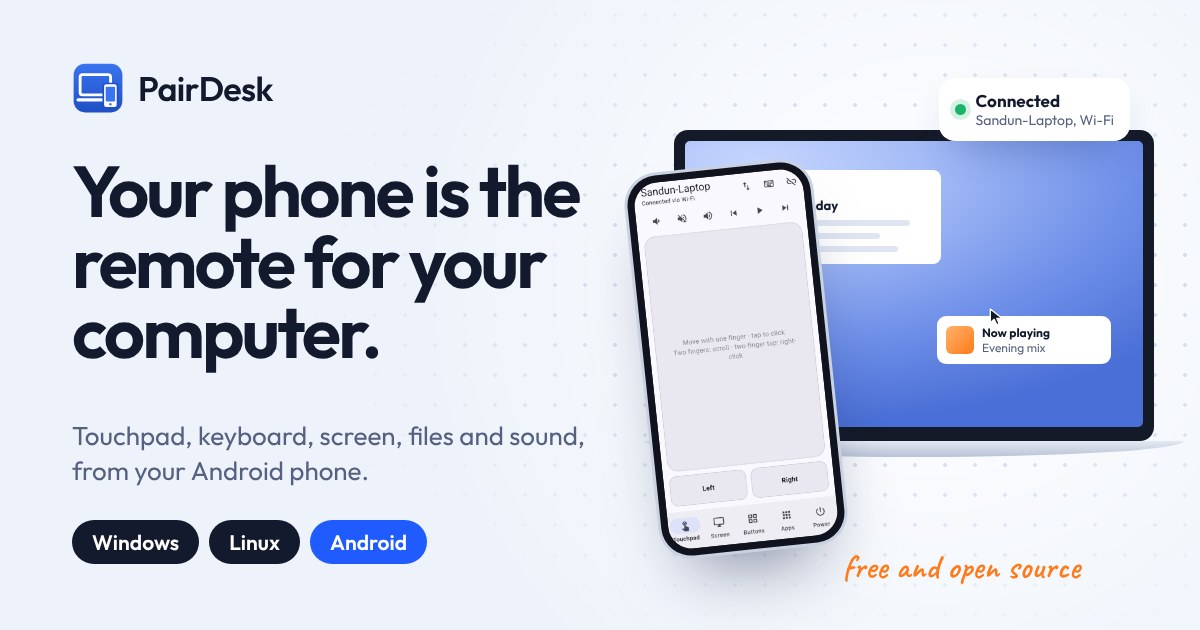
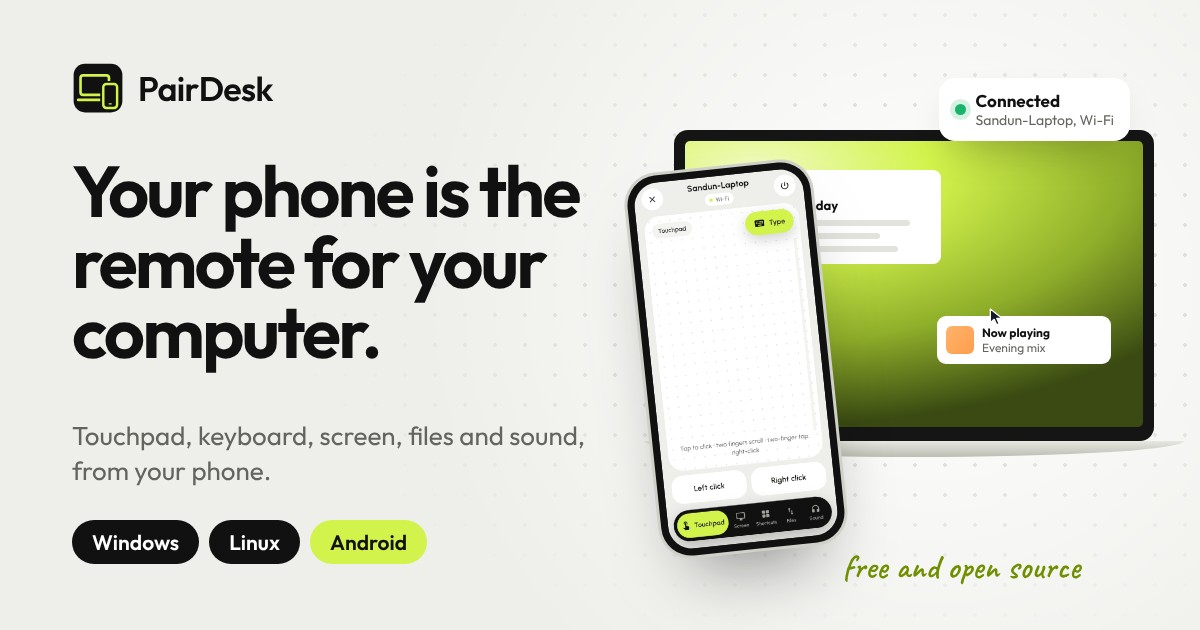
Website: ink and lime colours like the apps, desktop app section, new preview image, wording that matches the app

diff --git a/site/components/Devices.tsx b/site/components/Devices.tsx
@@ -15,20 +15,20 @@ export function Phone({
 }) {
   return (
     <div
-      className={`relative bg-[#10131d] shadow-[0_50px_90px_-40px_rgba(20,30,70,.55),0_0_0_1.5px_#2a3042_inset,0_0_0_4px_#c9d2e3] ${
+      className={`relative bg-[#111111] shadow-[0_50px_90px_-40px_rgba(17,17,17,.5),0_0_0_1.5px_#2a2a2a_inset,0_0_0_4px_#cfd0c8] ${
         landscape ? "aspect-[1170/540] rounded-[6.5%/14%] p-[1.6%]" : "aspect-[540/1170] rounded-[14%/6.5%] p-[3.2%]"
       } ${className}`}
       style={style}
     >
       <div
-        className={`relative h-full w-full overflow-hidden bg-[#f6f6fb] ${
+        className={`relative h-full w-full overflow-hidden bg-[#f3f3ef] ${
           landscape ? "rounded-[5.3%/11.5%]" : "rounded-[11.5%/5.3%]"
         }`}
       >
         {children}
         {/* camera island */}
         <span
-          className={`absolute rounded-full bg-[#10131d] ${
+          className={`absolute rounded-full bg-[#111111] ${
             landscape
               ? "top-1/2 left-[1.6%] h-[28%] w-[3%] -translate-y-1/2"
               : "top-[1.6%] left-1/2 h-[3%] w-[28%] -translate-x-1/2"
@@ -52,14 +52,14 @@ export function Desktop({
 }) {
   return (
     <div className={`absolute inset-0 overflow-hidden [container-type:inline-size] ${className}`}>
-      <div className="absolute inset-0 bg-[radial-gradient(120%_90%_at_15%_10%,#c8d8ff_0%,#9fb7f5_35%,#6d8ee8_70%,#4a6fd6_100%)]" />
+      <div className="absolute inset-0 bg-[radial-gradient(120%_90%_at_15%_10%,#f1fbc4_0%,#d2f34c_32%,#8fae2a_68%,#3a4a12_100%)]" />
       {/* soft hills */}
       <svg className="absolute inset-x-0 bottom-0 h-1/2 w-full" viewBox="0 0 400 100" preserveAspectRatio="none" aria-hidden="true">
         <path d="M0 60 C 80 30 140 70 220 45 S 360 40 400 55 V100 H0Z" fill="#ffffff" opacity=".18" />
         <path d="M0 80 C 90 55 170 90 260 68 S 360 70 400 76 V100 H0Z" fill="#ffffff" opacity=".22" />
       </svg>
       {/* notes window */}
-      <div className="absolute top-[9%] left-[7%] w-[46%] rounded-[1.6cqw] bg-white/95 p-[2.2cqw] shadow-[0_2cqw_5cqw_-2cqw_rgba(20,30,80,.45)]">
+      <div className="absolute top-[9%] left-[7%] w-[46%] rounded-[1.6cqw] bg-white/95 p-[2.2cqw] shadow-[0_2cqw_5cqw_-2cqw_rgba(17,17,17,.4)]">
         <div className="flex gap-[0.8cqw]">
           <i className="block size-[1.4cqw] rounded-full bg-[#ff6b5e]" />
           <i className="block size-[1.4cqw] rounded-full bg-[#ffc24a]" />
@@ -67,16 +67,16 @@ export function Desktop({
         </div>
         <p className="mt-[1.8cqw] text-[2.6cqw] leading-tight font-semibold text-ink">Ideas for Monday</p>
         <div className="mt-[1.4cqw] space-y-[1cqw]">
-          <i className="block h-[1cqw] w-[92%] rounded-full bg-[#dfe5f2]" />
-          <i className="block h-[1cqw] w-[78%] rounded-full bg-[#dfe5f2]" />
-          <i className="block h-[1cqw] w-[85%] rounded-full bg-[#dfe5f2]" />
-          <i className="block h-[1cqw] w-[55%] rounded-full bg-[#dfe5f2]" />
+          <i className="block h-[1cqw] w-[92%] rounded-full bg-[#e3e3de]" />
+          <i className="block h-[1cqw] w-[78%] rounded-full bg-[#e3e3de]" />
+          <i className="block h-[1cqw] w-[85%] rounded-full bg-[#e3e3de]" />
+          <i className="block h-[1cqw] w-[55%] rounded-full bg-[#e3e3de]" />
         </div>
       </div>
       {/* music card */}
       <div
         data-target="play"
-        className="absolute right-[7%] bottom-[22%] w-[34%] rounded-[1.8cqw] bg-white/90 p-[1.8cqw] shadow-[0_2cqw_5cqw_-2cqw_rgba(20,30,80,.45)]"
+        className="absolute right-[7%] bottom-[22%] w-[34%] rounded-[1.8cqw] bg-white/90 p-[1.8cqw] shadow-[0_2cqw_5cqw_-2cqw_rgba(17,17,17,.4)]"
       >
         <div className="flex items-center gap-[1.4cqw]">
           <span className="grid size-[6cqw] shrink-0 place-items-center rounded-[1.2cqw] bg-[linear-gradient(135deg,#ffb36b,#ff7a1a)]">
@@ -97,13 +97,13 @@ export function Desktop({
             <span className="block truncate text-[1.8cqw] leading-tight text-slate">Evening mix</span>
           </span>
         </div>
-        <span className="mt-[1.4cqw] block h-[0.7cqw] overflow-hidden rounded-full bg-[#e3e8f3]">
+        <span className="mt-[1.4cqw] block h-[0.7cqw] overflow-hidden rounded-full bg-[#e3e3de]">
           <span className="prog block h-full w-[45%] rounded-full bg-marker" />
         </span>
       </div>
       {/* taskbar */}
       <div className="absolute bottom-[3.5%] left-1/2 flex -translate-x-1/2 gap-[1.2cqw] rounded-[1.6cqw] bg-white/70 px-[1.6cqw] py-[1.1cqw] backdrop-blur-sm">
-        {["#1f5bff", "#ff7a1a", "#19b46b", "#8f5bff", "#ffc24a"].map((c) => (
+        {["#d2f34c", "#ff7a1a", "#19b46b", "#8f5bff", "#ffc24a"].map((c) => (
           <i key={c} className="block size-[3cqw] rounded-[0.8cqw]" style={{ background: c }} />
         ))}
       </div>
@@ -124,13 +124,13 @@ export function Laptop({
 }) {
   return (
     <div className={`relative ${className}`}>
-      <div className="rounded-[2.2%/3.4%] bg-[#151a28] p-[2.2%] pb-[3%] shadow-[0_60px_100px_-50px_rgba(20,30,70,.55),0_0_0_1.5px_#2c3347_inset]">
+      <div className="rounded-[2.2%/3.4%] bg-[#151515] p-[2.2%] pb-[3%] shadow-[0_60px_100px_-50px_rgba(17,17,17,.5),0_0_0_1.5px_#2c2c2c_inset]">
         <div ref={screenRef} className="relative aspect-[16/10] overflow-hidden rounded-[0.8%] bg-sky">
           {children}
         </div>
       </div>
-      <div className="relative mx-[-6%] h-[3.2vmin] max-h-5 min-h-2.5 rounded-b-[40%_100%] bg-[linear-gradient(#e4e9f2,#b9c3d6)] shadow-[0_24px_40px_-20px_rgba(20,30,70,.5)]">
-        <span className="absolute top-0 left-1/2 h-[45%] w-[16%] -translate-x-1/2 rounded-b-xl bg-[#a8b3c8]" />
+      <div className="relative mx-[-6%] h-[3.2vmin] max-h-5 min-h-2.5 rounded-b-[40%_100%] bg-[linear-gradient(#e6e7e0,#bcbeb3)] shadow-[0_24px_40px_-20px_rgba(17,17,17,.45)]">
+        <span className="absolute top-0 left-1/2 h-[45%] w-[16%] -translate-x-1/2 rounded-b-xl bg-[#a9ab9f]" />
       </div>
     </div>
   );

diff --git a/site/components/Help.tsx b/site/components/Help.tsx
@@ -8,7 +8,7 @@ import { Squiggle } from "@/components/Devices";
 function Avatar({ skin, hair, shirt, long = false }: { skin: string; hair: string; shirt: string; long?: boolean }) {
   return (
     <svg viewBox="0 0 80 80" className="h-full w-full" aria-hidden="true">
-      <circle cx="40" cy="40" r="40" fill="#eef3fb" />
+      <circle cx="40" cy="40" r="40" fill="#eeeeea" />
       <clipPath id={`c-${shirt.slice(1)}`}>
         <circle cx="40" cy="40" r="40" />
       </clipPath>
@@ -18,9 +18,9 @@ function Avatar({ skin, hair, shirt, long = false }: { skin: string; hair: strin
         <rect x="34" y="46" width="12" height="12" rx="5" fill={skin} />
         <ellipse cx="40" cy="36" rx="15" ry="17" fill={skin} />
         <path d="M24 34 Q24 16 40 16 Q57 16 56 34 Q50 24 40 25 Q30 24 24 34 Z" fill={hair} />
-        <circle cx="34" cy="37" r="1.8" fill="#1d2235" />
-        <circle cx="46" cy="37" r="1.8" fill="#1d2235" />
-        <path d="M35 44 Q40 48 45 44" stroke="#1d2235" strokeWidth="1.8" fill="none" strokeLinecap="round" />
+        <circle cx="34" cy="37" r="1.8" fill="#111111" />
+        <circle cx="46" cy="37" r="1.8" fill="#111111" />
+        <path d="M35 44 Q40 48 45 44" stroke="#111111" strokeWidth="1.8" fill="none" strokeLinecap="round" />
       </g>
     </svg>
   );
@@ -73,15 +73,15 @@ export default function Help() {
           </div>
 
           <div data-pop className="relative mx-auto aspect-[1/1.3] w-full max-w-[560px] text-[0.85rem] sm:aspect-[1/0.9] sm:text-[0.95rem]">
-            <div aria-hidden="true" className="absolute inset-[8%_4%_6%_10%] rounded-[36px] bg-[linear-gradient(160deg,#e7eeff,#f3f6fd)]" />
-            <svg aria-hidden="true" viewBox="0 0 500 450" className="absolute inset-0 h-full w-full text-[#b9c8ea]" fill="none">
+            <div aria-hidden="true" className="absolute inset-[8%_4%_6%_10%] rounded-[36px] bg-[linear-gradient(160deg,#e9eadf,#f4f4ef)]" />
+            <svg aria-hidden="true" viewBox="0 0 500 450" className="absolute inset-0 h-full w-full text-[#cfd1c6]" fill="none">
               <path data-draw d="M120 130 C 200 160, 260 140, 330 210 S 380 330, 300 360" stroke="currentColor" strokeWidth="2.5" strokeDasharray="2 10" strokeLinecap="round" />
             </svg>
 
             {/* the friend */}
             <div data-pop-item className="absolute top-[4%] left-[2%] w-[26%]">
               <div className="aspect-square overflow-hidden rounded-full shadow-[0_18px_40px_-16px_rgba(31,58,120,.5)] ring-4 ring-white">
-                <Avatar skin="#e8b796" hair="#3b2a20" shirt="#ff7a1a" long />
+                <Avatar skin="#e8b796" hair="#3b2a20" shirt="#d2f34c" long />
               </div>
             </div>
             <div data-pop-item className="absolute top-[6%] left-[30%] max-w-[62%]">
@@ -93,7 +93,7 @@ export default function Help() {
             {/* you */}
             <div data-pop-item className="absolute top-[30%] right-[2%] w-[22%]">
               <div className="aspect-square overflow-hidden rounded-full shadow-[0_18px_40px_-16px_rgba(31,58,120,.5)] ring-4 ring-white">
-                <Avatar skin="#b9805a" hair="#141a2e" shirt="#1f5bff" />
+                <Avatar skin="#b9805a" hair="#111111" shirt="#111111" />
               </div>
             </div>
             <div data-pop-item className="absolute top-[36%] right-[26%] max-w-[64%] sm:top-[38%] sm:max-w-[58%]">

diff --git a/site/components/Sections.tsx b/site/components/Sections.tsx
@@ -113,6 +113,41 @@ const MORE = [
   { title: "Wayland and X11", body: "Works on GNOME and KDE, on Wayland or X11, and on Windows 10 and 11." },
 ];
 
+const DESKTOP = [
+  { src: "/screenshots/desktop-home.jpg", alt: "PairDesk's window on the computer: the home page, with a phone connected", caption: "Home: who is connected, and one click to send files" },
+  { src: "/screenshots/desktop-files-dark.jpg", alt: "PairDesk's window on the computer, dark: files going to and from a phone", caption: "Files, in light or dark" },
+  { src: "/screenshots/desktop-pair.jpg", alt: "PairDesk's window on the computer: the dialog with the pairing code", caption: "Pair a phone with a code or a link" },
+];
+
+export function DesktopApp() {
+  return (
+    <section aria-labelledby="desktop-title" className="px-3 sm:px-6">
+      <div className="mx-auto max-w-7xl">
+        <h2 id="desktop-title" className="display max-w-3xl text-[clamp(2.4rem,5vw,4.2rem)]">
+          And the app on your computer
+        </h2>
+        <p className="mt-5 max-w-2xl text-lg text-slate">
+          It sits in the tray and stays out of the way. Open it to pair a phone, see who is connected, send files, change shortcuts and decide what a phone may do.
+        </p>
+        <div data-pop className="mt-12 grid gap-x-6 gap-y-10 lg:grid-cols-[1.5fr_1fr]">
+          <figure data-pop-item className="lg:row-span-2">
+            {/* eslint-disable-next-line @next/next/no-img-element */}
+            <img src={DESKTOP[0].src} alt={DESKTOP[0].alt} width={1300} height={925} loading="lazy" className="w-full rounded-[22px] border border-line bg-white shadow-[0_40px_70px_-40px_rgba(17,17,17,.55)]" />
+            <figcaption className="mt-4 text-center font-medium text-slate">{DESKTOP[0].caption}</figcaption>
+          </figure>
+          {DESKTOP.slice(1).map((d) => (
+            <figure key={d.src} data-pop-item>
+              {/* eslint-disable-next-line @next/next/no-img-element */}
+              <img src={d.src} alt={d.alt} width={1300} height={925} loading="lazy" className="w-full rounded-[18px] border border-line bg-white shadow-[0_30px_60px_-40px_rgba(17,17,17,.55)]" />
+              <figcaption className="mt-4 text-center font-medium text-slate">{d.caption}</figcaption>
+            </figure>
+          ))}
+        </div>
+      </div>
+    </section>
+  );
+}
+
 export function Tour() {
   return (
     <section aria-labelledby="tour-title" className="overflow-hidden">
@@ -132,7 +167,7 @@ export function Tour() {
                 width={540}
                 height={1170}
                 loading="lazy"
-                className="w-full rounded-[30px] border-[6px] border-[#10131d] bg-white shadow-[0_40px_70px_-40px_rgba(20,30,70,.6)] transition-transform duration-500 ease-[var(--ease-out-quint)] hover:-translate-y-2 hover:rotate-[-1.5deg]"
+                className="w-full rounded-[30px] border-[6px] border-[#111111] bg-white shadow-[0_40px_70px_-40px_rgba(17,17,17,.55)] transition-transform duration-500 ease-[var(--ease-out-quint)] hover:-translate-y-2 hover:rotate-[-1.5deg]"
               />
               <figcaption className="mt-4 text-center font-medium text-slate">{s.caption}</figcaption>
             </figure>

diff --git a/site/app/globals.css b/site/app/globals.css
@@ -3,21 +3,23 @@
 @import "lenis/dist/lenis.css";
 
 /*
-  PairDesk, light: a pale sky page with white sheets laid on it.
-  Pair blue is the brand (bands, footer, primary actions); marker orange is
-  the pen that draws on the page (pins, doodles, notes, focus).
+  PairDesk, light: a soft grey page with white sheets laid on it, the same
+  colours as the apps. Ink is the brand (bands, footer); lime is the accent
+  (primary actions, highlights); olive is the pen that draws on the page
+  (pins, doodles, notes, focus).
 */
 @theme {
-  --color-sky: #eef3fb;
-  --color-sky-deep: #e2e9f6;
+  --color-sky: #eeeeea;
+  --color-sky-deep: #e3e3de;
   --color-sheet: #ffffff;
-  --color-ink: #141a2e;
-  --color-slate: #566180;
-  --color-line: #d9e1ef;
-  --color-pair: #1f5bff;
-  --color-pair-deep: #1546cc;
-  --color-pair-soft: #e3ebff;
-  --color-marker: #ff7a1a;
+  --color-ink: #111111;
+  --color-slate: #62655e;
+  --color-line: #e3e3de;
+  --color-pair: #111111;
+  --color-lime: #d2f34c;
+  --color-pair-deep: #000000;
+  --color-pair-soft: #eaf8ae;
+  --color-marker: #6f8f00;
   --color-go: #19b46b;
 
   --font-sans: "Outfit Variable", ui-sans-serif, system-ui, sans-serif;
@@ -109,18 +111,18 @@
 .btn-ink {
   background: var(--color-ink);
   color: white;
-  box-shadow: 0 10px 24px -12px rgba(20, 26, 46, 0.7);
+  box-shadow: 0 10px 24px -12px rgba(17, 17, 17, 0.7);
 }
 .btn-ink:hover {
-  background: #26304f;
+  background: #2b2c28;
 }
 .btn-pair {
-  background: var(--color-pair);
-  color: white;
-  box-shadow: 0 12px 26px -12px var(--color-pair);
+  background: var(--color-lime);
+  color: var(--color-ink);
+  box-shadow: 0 12px 26px -12px #8aa800;
 }
 .btn-pair:hover {
-  background: var(--color-pair-deep);
+  background: #c6e63f;
 }
 .btn-line {
   border: 1.5px solid color-mix(in oklab, var(--color-ink) 22%, transparent);
@@ -131,11 +133,11 @@
   border-color: var(--color-ink);
 }
 .btn-white {
-  background: white;
-  color: var(--color-pair-deep);
+  background: var(--color-lime);
+  color: var(--color-ink);
 }
 .btn-white:hover {
-  background: var(--color-pair-soft);
+  background: #e2f87a;
 }
 
 /* A white sheet laid on the sky: the page is a stack of these. */

diff --git a/site/components/Features.tsx b/site/components/Features.tsx
@@ -73,12 +73,12 @@ export function Touchpad() {
   return (
     <Feature
       id="touchpad"
-      title="Touchpad, keyboard and your own buttons"
-      body="Move, click, drag and scroll with the gestures you already know. Type with your phone's keyboard, voice typing included, and keep shortcuts and media keys one tap away."
+      title="Touchpad, keyboard and your own shortcuts"
+      body="Move, click, drag and scroll with the gestures you already know. Type with your phone's keyboard, voice typing included, and keep shortcuts one tap away, with the media keys on the Sound tab."
       points={[
         "Two fingers scroll, a two-finger tap right-clicks",
-        "Make buttons for the shortcuts you use every day",
-        "Volume, play and skip are always at the top",
+        "Make tiles for the shortcuts you use every day",
+        "Volume, play and skip are on the Sound tab",
       ]}
       note="feels like a real laptop touchpad"
     >
@@ -86,7 +86,7 @@ export function Touchpad() {
       <div data-pop-item className="absolute top-1/2 left-1/2 w-[46%] max-w-[230px] -translate-x-1/2 -translate-y-1/2 rotate-[4deg]">
         <Phone>
           {/* eslint-disable-next-line @next/next/no-img-element */}
-          <img src="/screenshots/3_shortcuts.png" alt="PairDesk's shortcut buttons screen" width={540} height={1170} loading="lazy" className="h-full w-full object-cover" />
+          <img src="/screenshots/3_shortcuts.png" alt="PairDesk's shortcuts screen" width={540} height={1170} loading="lazy" className="h-full w-full object-cover" />
         </Phone>
       </div>
       <div data-pop-item className="absolute top-[10%] left-[2%] flex items-center gap-2 sm:left-[6%]">

diff --git a/site/lib/globe.ts b/site/lib/globe.ts
@@ -51,7 +51,7 @@ export class Globe {
     // a pale disc so back dots read as "behind"
     const ball = new THREE.Mesh(
       new THREE.SphereGeometry(0.985, 64, 48),
-      new THREE.MeshBasicMaterial({ color: 0xf3f6fd, transparent: true, opacity: 0.92 }),
+      new THREE.MeshBasicMaterial({ color: 0xf6f6f2, transparent: true, opacity: 0.92 }),
     );
     this.world.add(ball);
 
@@ -67,7 +67,7 @@ export class Globe {
       depthWrite: false,
       uniforms: {
         uSize: { value: 3.9 * Math.min(window.devicePixelRatio, 2) },
-        uColor: { value: new THREE.Color(0x3d6ff5) },
+        uColor: { value: new THREE.Color(0x34352f) },
         uReveal: { value: reduced ? 1 : 0 },
       },
       vertexShader: /* glsl */ `
@@ -129,10 +129,10 @@ export class Globe {
       const tube = new THREE.TubeGeometry(curve, 96, 0.0075, 8, false);
       const total = tube.index ? tube.index.count : 0;
       tube.setDrawRange(0, reduced ? total : 0);
-      this.world.add(new THREE.Mesh(tube, new THREE.MeshBasicMaterial({ color: 0xff7a1a })));
+      this.world.add(new THREE.Mesh(tube, new THREE.MeshBasicMaterial({ color: 0xb4dc1e })));
       this.arcs.push({ geo: tube, total });
       for (let k = 0; k < 2; k++) {
-        const m = new THREE.Mesh(new THREE.SphereGeometry(0.022, 16, 12), new THREE.MeshBasicMaterial({ color: 0xff7a1a }));
+        const m = new THREE.Mesh(new THREE.SphereGeometry(0.022, 16, 12), new THREE.MeshBasicMaterial({ color: 0xb4dc1e }));
         m.visible = false;
         this.world.add(m);
         this.packets.push({ mesh: m, curve, offset: k * 0.5 + i * 0.25 });

diff --git a/site/app/page.tsx b/site/app/page.tsx
@@ -7,7 +7,7 @@ import Downloads from "@/components/Downloads";
 import Anywhere from "@/components/Anywhere";
 import Help from "@/components/Help";
 import { Files, Screen, Touchpad } from "@/components/Features";
-import { Questions, Setup, Stats, Tour, Trust } from "@/components/Sections";
+import { DesktopApp, Questions, Setup, Stats, Tour, Trust } from "@/components/Sections";
 import { AUTHOR, DESCRIPTION, NAME, SITE } from "@/lib/seo";
 
 // What search engines read about the app (schema.org).
@@ -76,6 +76,7 @@ export default function Home() {
         <div className="py-14 sm:py-20">
           <Tour />
         </div>
+        <DesktopApp />
         <Downloads />
         <Questions />
       </main>

diff --git a/site/components/Hero.tsx b/site/components/Hero.tsx
@@ -200,7 +200,7 @@ export default function Hero() {
 
         {/* The stage */}
         <div className="relative mx-auto w-full max-w-[640px] [perspective:1400px] lg:max-w-none">
-          <svg aria-hidden="true" viewBox="0 0 600 420" className="pointer-events-none absolute -top-[8%] -left-[6%] w-[112%] text-[#b9c8ea]" fill="none">
+          <svg aria-hidden="true" viewBox="0 0 600 420" className="pointer-events-none absolute -top-[8%] -left-[6%] w-[112%] text-[#cfd1c6]" fill="none">
             <path data-draw d="M20 330 C 120 120, 420 40, 580 150" stroke="currentColor" strokeWidth="2" strokeDasharray="1 9" strokeLinecap="round" />
           </svg>
 

diff --git a/site/components/Anywhere.tsx b/site/components/Anywhere.tsx
@@ -8,9 +8,9 @@ import type { Globe } from "@/lib/globe";
 
 /* Home in Sri Lanka, a relay hop, and the phone travelling in Europe. */
 const PINS = [
-  { lat: 7.3, lng: 80.6, color: 0x1f5bff },
-  { lat: 25, lng: 55, color: 0x141a2e },
-  { lat: 48.9, lng: 2.35, color: 0xff7a1a },
+  { lat: 7.3, lng: 80.6, color: 0x111111 },
+  { lat: 25, lng: 55, color: 0x62655e },
+  { lat: 48.9, lng: 2.35, color: 0xb4dc1e },
 ];
 const LABELS = [
   { title: "Your computer", sub: "awake at home" },

diff --git a/site/app/manifest.ts b/site/app/manifest.ts
@@ -11,8 +11,8 @@ export default function manifest(): MetadataRoute.Manifest {
     description: DESCRIPTION,
     start_url: "/",
     display: "standalone",
-    background_color: "#eef3fb",
-    theme_color: "#1f5bff",
+    background_color: "#eeeeea",
+    theme_color: "#111111",
     icons: [
       { src: "/icon-192.png", sizes: "192x192", type: "image/png" },
       { src: "/icon-512.png", sizes: "512x512", type: "image/png" },

diff --git a/site/lib/seo.ts b/site/lib/seo.ts
@@ -12,7 +12,7 @@ export const OG_IMAGE = {
   url: "/og.jpg",
   width: 1200,
   height: 630,
-  alt: "PairDesk: an Android phone used as the touchpad for a laptop",
+  alt: "PairDesk: a phone used as the touchpad for a laptop",
 };
 
 /** Metadata for one page: its own title, description and address, with the

diff --git a/site/app/layout.tsx b/site/app/layout.tsx
@@ -64,7 +64,7 @@ export const metadata: Metadata = {
 };
 
 export const viewport: Viewport = {
-  themeColor: "#eef3fb",
+  themeColor: "#eeeeea",
   colorScheme: "light",
 };
 
